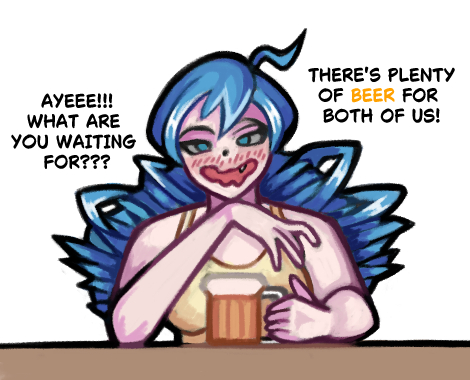
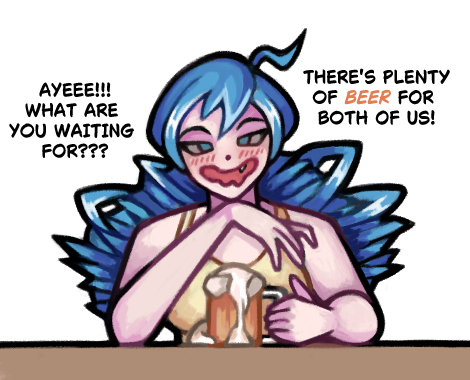
u

diff --git a/index.html b/index.html
@@ -21,11 +21,12 @@
                 <div class="description_title">My artworks and sketches!</div>
                 <br>
                     <div class="two_artwork_container" style="margin-left: auto; margin-right: auto; display: flex; flex-direction: row; width: 50rem; height: 30rem; gap: 1rem; justify-content: center;">
+                        <img src="resources/artworks/akali_sticker_two.jpg" class="artwork" style="width: auto; height: auto">
                         <img src="resources/artworks/queen_dizzy.jpg" class="artwork" style="width: auto; height: auto">
                     </div>
                     <BR>
                     <div class="two_artwork_container" style="margin-left: auto; margin-right: auto; display: flex; flex-direction: row; width: 50rem; height: 30rem; gap: 1rem; justify-content: center;">
-                        <img src="resources/artworks/rias_gremory.jpg" class="artwork" style="width: auto; height: auto">
+                        <img src="resources/artworks/rias_artwork.jpg" class="artwork" style="width: auto; height: auto">
                         <img src="resources/artworks/drunk_gwen.jpg" class="artwork" style="width: fit-content; height: fit-content">
                     </div>
                     <BR>
